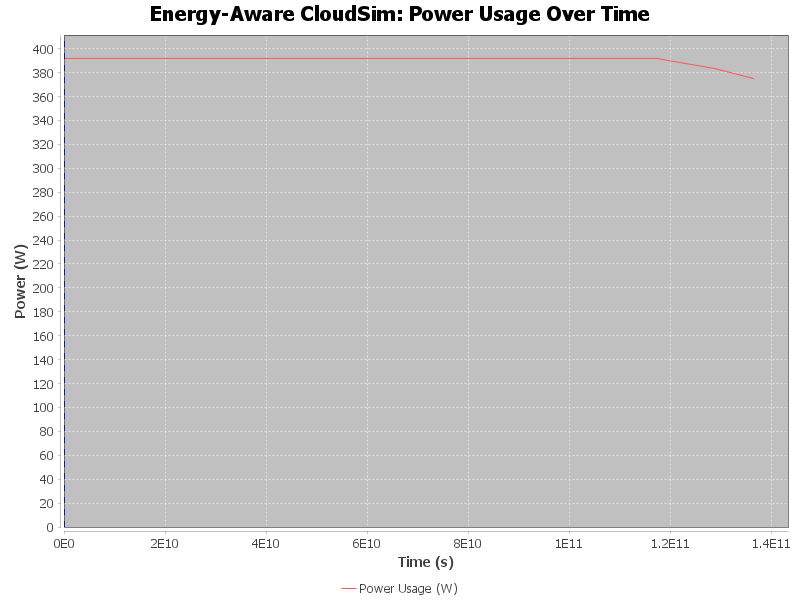
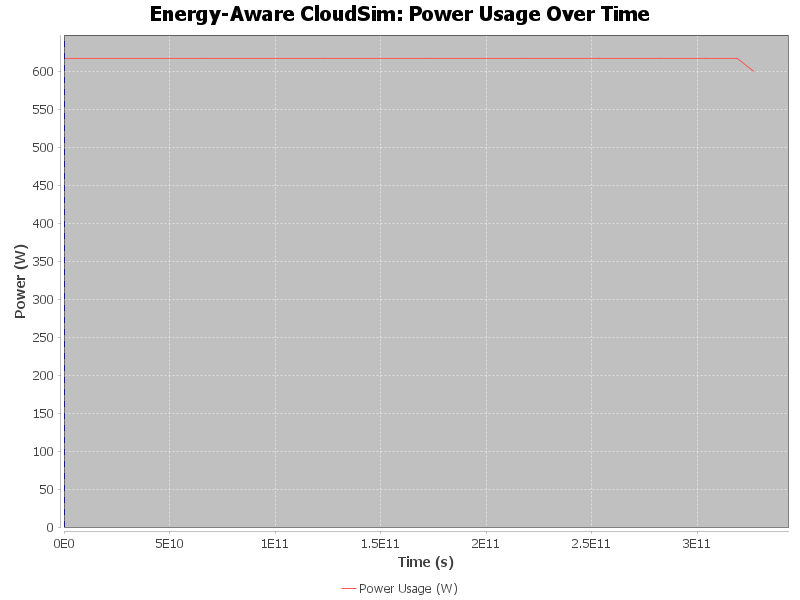
testing-1

diff --git a/modules/cloudsim-examples/src/main/java/org/cloudbus/cloudsim/examples/EnergyAwareCloudSimExample.java b/modules/cloudsim-examples/src/main/java/org/cloudbus/cloudsim/examples/EnergyAwareCloudSimExample.java
@@ -51,9 +51,9 @@ public class EnergyAwareCloudSimExample {
     private static List<Double> powerOverTime = new ArrayList<>();
     private static List<Double> timeStamps = new ArrayList<>();
     private static final Logger logger = LoggerFactory.getLogger(EnergyAwareCloudSimExample.class);
-    private static final int HOSTS = 5;
-    private static final int VMS = 10;
-    private static final int CLOUDLETS = 20;
+    private static final int HOSTS = 8;
+    private static final int VMS = 5;
+    private static final int CLOUDLETS = 30;
     private static final double SCHEDULING_INTERVAL = 1.0;
     private static double totalEnergy = 0.0;
     private static Datacenter datacenter;
